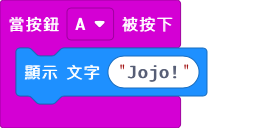
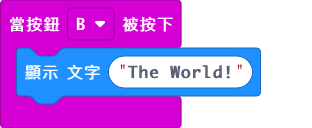
Update main.blocks, main.ts

Changed region(s): [[0.0309, 0.0, 0.8649, 0.8438], [0.556, 0.75, 0.7104, 1.0]]

diff --git a/main.ts b/main.ts
@@ -1,6 +1,9 @@
 input.onButtonPressed(Button.A, function () {
     basic.showString("Jojo!")
 })
+input.onButtonPressed(Button.B, function () {
+    basic.showString("The World!")
+})
 basic.forever(function () {
     basic.showString("Dio!")
 })
